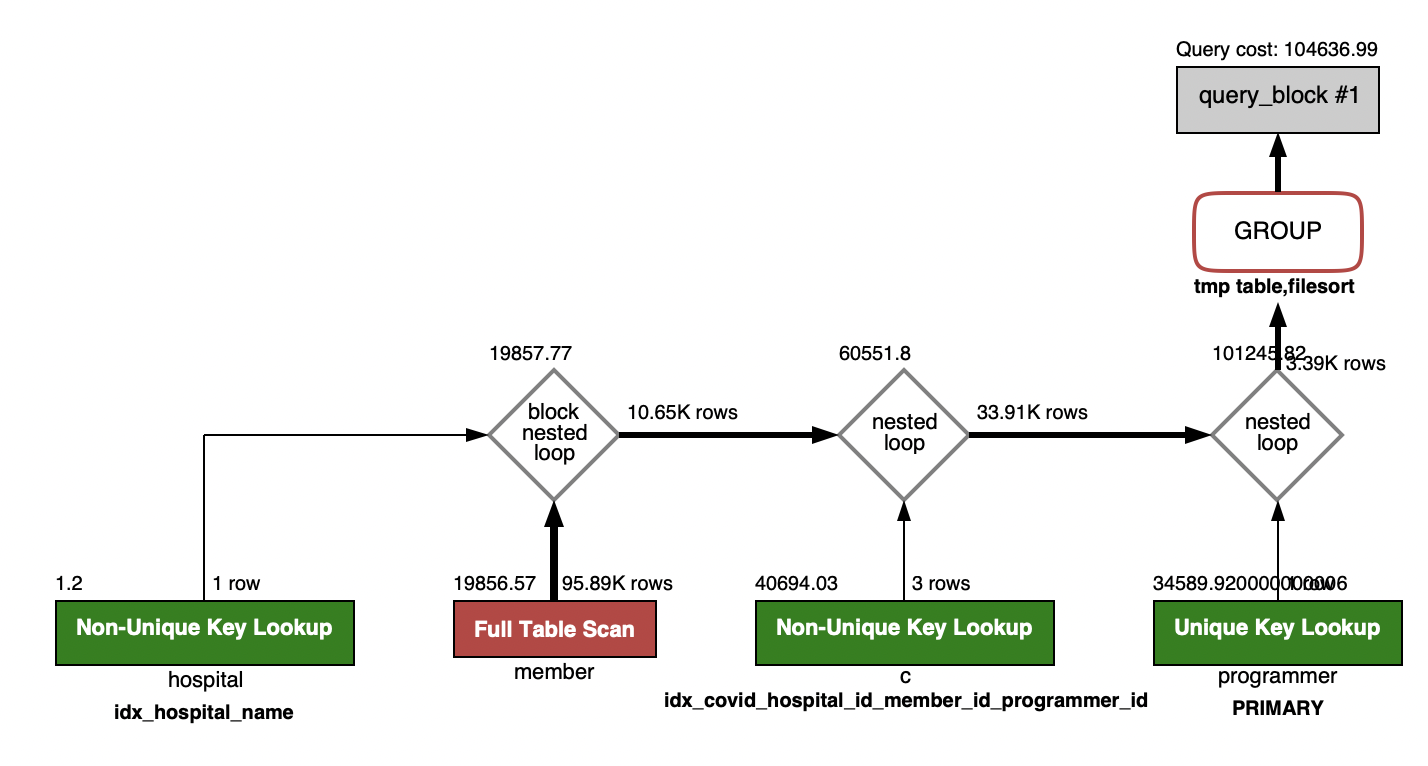
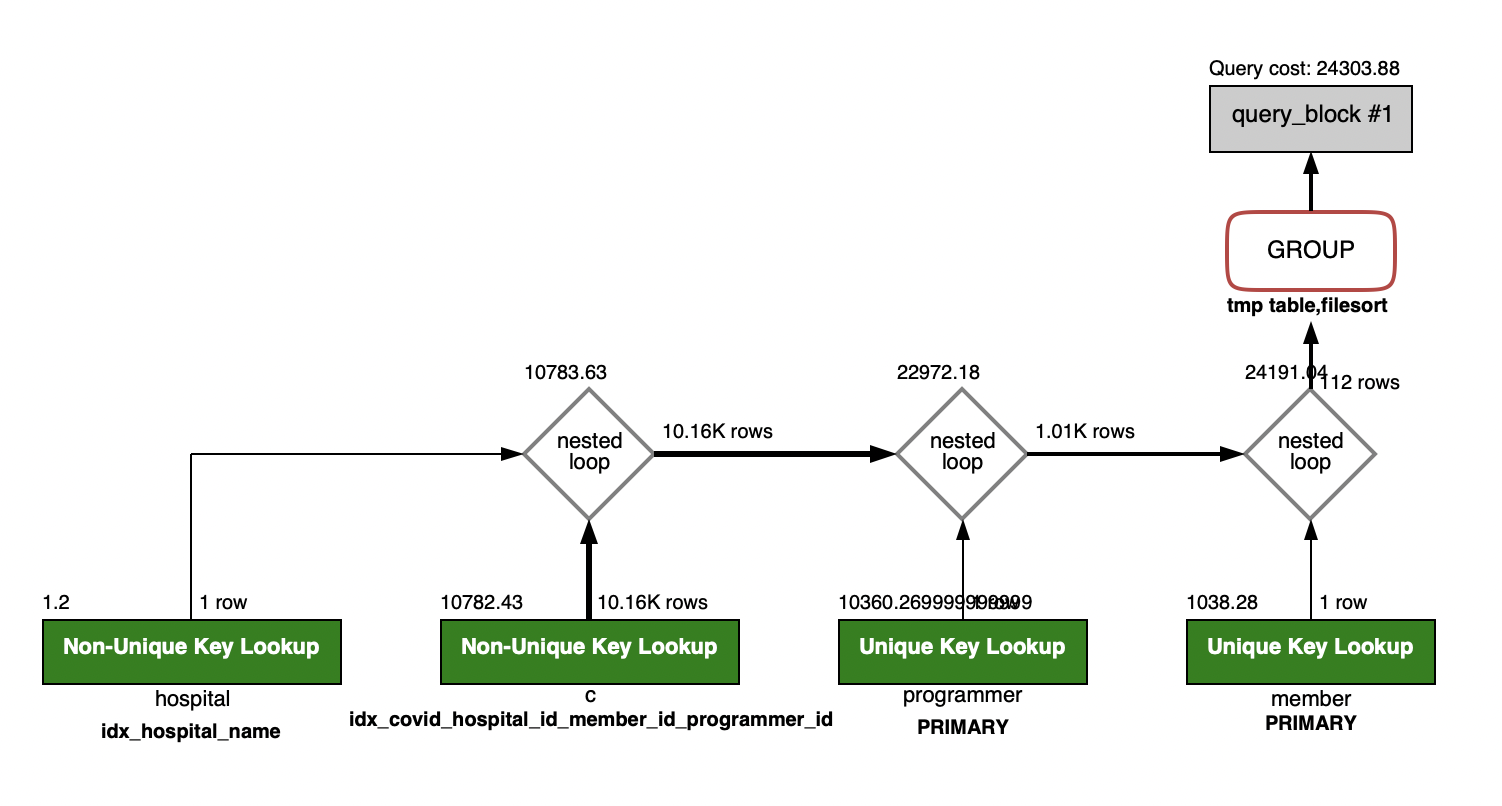
docs(README.md): 4번 문제 - 복합 인덱스 컬럼 순서 변경

Changed region(s): [[0.0308, 0.03, 0.986, 0.9608], [0.7703, 0.7206, 0.986, 0.9308]]

diff --git a/README.md b/README.md
@@ -234,7 +234,7 @@ JOIN hospital h
     - PK 생성 2 : hospital.id
     - PK 생성 3 : programmer.id
     - PK 생성 4 : member.id
-    - 인덱스 추가 1 : covid = member_id, hospital_id, covid.programmer_id
+    - 인덱스 추가 1 : covid = hospital_id, member_id, covid.programmer_id
     - 인덱스 추가 2 : hospital.name
 ```sql
 SELECT c.stay, COUNT(c.stay) AS count
